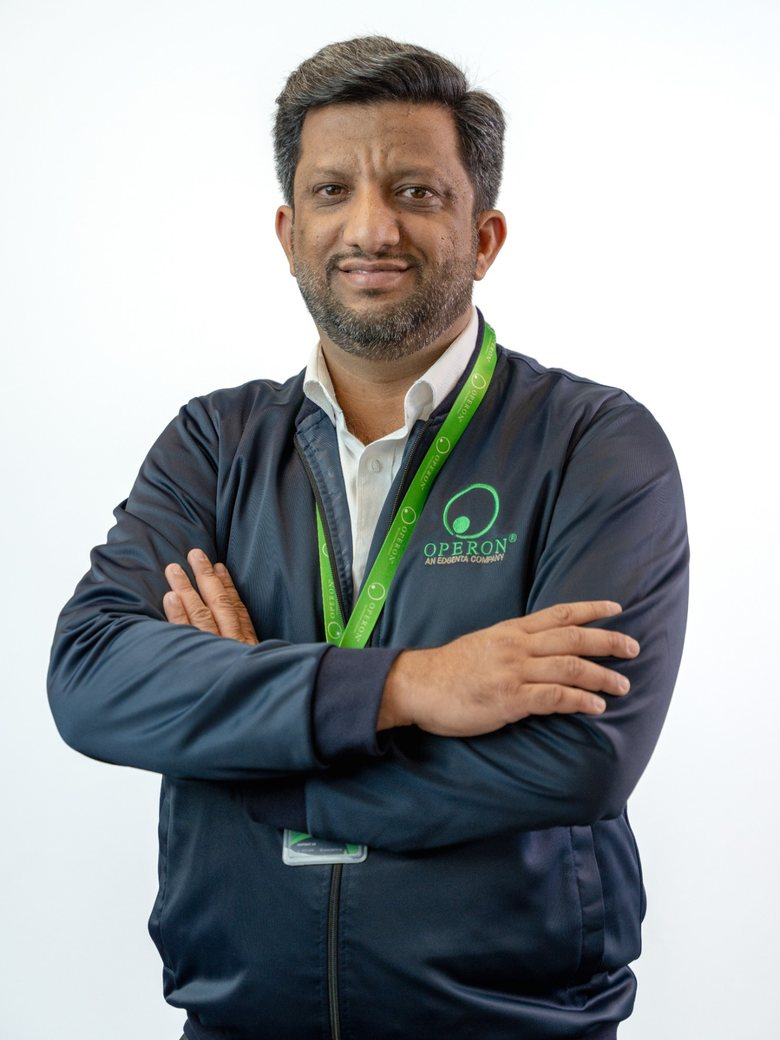
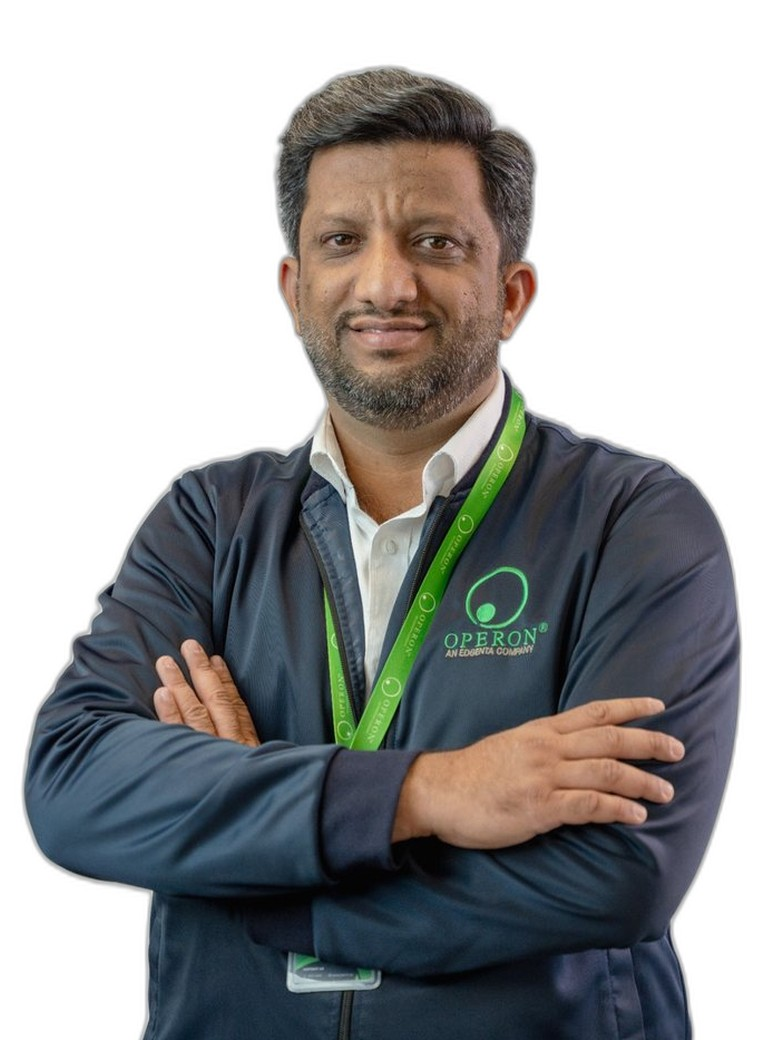
Visual consistency pass: standardized portraits, About layout, Residential image
- Executive Team portraits re-processed to a uniform standard: faces at
  consistent height and scale, white background across all nine, 3x3
  centered grid with hairline ring; Tenzin Doma reinstated and Linta
  Raju positioned directly after the CEO per client review.
- About hero restructured: headline and intro in an editorial two-column
  arrangement with the full photograph shown at its native 3:2 ratio.
- Our Work Residential slide now uses people-focused photography in
  line with the other environments.

Claude-Session: https://claude.ai/code/session_01T2PsXZERU4t9k9u6QZjdtD

diff --git a/src/app/about/page.tsx b/src/app/about/page.tsx
@@ -19,27 +19,32 @@ export default function AboutPage() {
   return (
     <>
       <section id="about" className="scroll-mt-28 bg-white pt-16 sm:pt-20 lg:pt-24">
-        <Container className="grid grid-cols-1 items-center gap-12 lg:grid-cols-2">
-          <Reveal>
-            <p className="text-xs font-bold uppercase tracking-[0.3em] text-green">
-              Who we are
-            </p>
-            <h1 className="mt-5 text-4xl font-bold leading-[1.08] tracking-tight text-black sm:text-5xl">
-              {about.headline}
-            </h1>
-            {about.paragraphs.map((p) => (
-              <p key={p.slice(0, 24)} className="mt-5 max-w-xl text-base leading-relaxed text-grey">
-                {p}
+        <Container>
+          <div className="grid grid-cols-1 gap-x-14 gap-y-8 lg:grid-cols-[1.1fr_1fr] lg:items-end">
+            <Reveal>
+              <p className="text-xs font-bold uppercase tracking-[0.3em] text-green">
+                Who we are
               </p>
-            ))}
-          </Reveal>
-          <Reveal delay={100}>
+              <h1 className="mt-5 text-4xl font-bold leading-[1.08] tracking-tight text-black sm:text-5xl">
+                {about.headline}
+              </h1>
+            </Reveal>
+            <Reveal delay={100}>
+              {about.paragraphs.map((p) => (
+                <p key={p.slice(0, 24)} className="mt-5 text-base leading-relaxed text-grey first:mt-0">
+                  {p}
+                </p>
+              ))}
+            </Reveal>
+          </div>
+          {/* Full photo at its native 3:2 ratio — nothing cropped away. */}
+          <Reveal delay={150} className="mt-12 sm:mt-14">
             <Photo
               src={photoFor("about-team") ?? photoFor("environments/master-communities")}
               alt="Operon teams at work across the UAE"
-              aspect="aspect-[4/5] max-h-[640px]"
+              aspect="aspect-[3/2]"
               className=""
-              sizes="(min-width: 1024px) 50vw, 100vw"
+              sizes="(min-width: 1280px) 1216px, 100vw"
               priority
             />
           </Reveal>

diff --git a/src/lib/team.ts b/src/lib/team.ts
@@ -1,9 +1,7 @@
-// Executive team profiles, in the order supplied by OME (November 2026,
-// incl. the follow-up correction placing Linta Raju before Suraya).
-// Photos live at public/images/photos/team/<slug>.jpg; a member without a
-// photo renders as a placeholder tile until it arrives.
-// Note: Tenzin Doma was not in the client's latest sequence and is
-// therefore not listed.
+// Executive team profiles, in the order supplied by OME (November 2026
+// review: Linta immediately after Bader, Tenzin reinstated, the rest in
+// the existing sequence). Photos live at
+// public/images/photos/team/<slug>.jpg.
 
 export type TeamMember = {
   slug: string;
@@ -13,11 +11,12 @@ export type TeamMember = {
 
 export const teamMembers: TeamMember[] = [
   { slug: "bader-iqbal", name: "Bader Iqbal", designation: "Chief Executive Officer" },
+  { slug: "linta-raju", name: "Linta Raju", designation: "Head of Finance" },
   { slug: "boban-thomas", name: "Boban Thomas", designation: "Director of Strategy & Growth" },
   { slug: "hani-abojendel", name: "Hani Abojendel", designation: "Head of Operations" },
   { slug: "vijeth-dsouza", name: "Vijeth D'Souza", designation: "Head of Commercial Strategy and Growth" },
-  { slug: "linta-raju", name: "Linta Raju", designation: "Head of Finance" },
   { slug: "suraya-azhani", name: "Suraya Azhani Amin", designation: "Head of Marketing and Stakeholder Management" },
+  { slug: "tenzin-doma", name: "Tenzin Doma", designation: "Head of Human Resources" },
   { slug: "aamir-zahoor", name: "Aamir Zahoor", designation: "Head of Procurement" },
   { slug: "warren-layug", name: "Warren Layug", designation: "Head of Centre of Excellence" },
 ];

diff --git a/src/app/our-team/page.tsx b/src/app/our-team/page.tsx
@@ -35,18 +35,18 @@ export default function OurTeamPage() {
 
       <section className="bg-white py-14 sm:py-20">
         <Container>
-          <div className="grid max-w-4xl grid-cols-2 gap-x-4 gap-y-10 sm:grid-cols-4">
+          <div className="mx-auto grid max-w-3xl grid-cols-2 gap-x-5 gap-y-10 sm:grid-cols-3">
             {teamMembers.map((m, i) => {
               const src = photoFor(`team/${m.slug}`);
               return (
-                <Reveal key={m.slug} delay={(i % 4) * 70}>
-                  <div className="group relative aspect-[3/4] overflow-hidden bg-mist">
+                <Reveal key={m.slug} delay={(i % 3) * 70}>
+                  <div className="group relative aspect-[3/4] overflow-hidden bg-white ring-1 ring-black/5">
                     {src && (
                       <Image
                         src={src}
                         alt={m.name}
                         fill
-                        sizes="(min-width: 1024px) 25vw, (min-width: 640px) 33vw, 50vw"
+                        sizes="(min-width: 640px) 33vw, 50vw"
                         className="object-cover transition-transform duration-700 ease-out group-hover:scale-[1.04]"
                       />
                     )}

diff --git a/src/components/home/TeamTeaser.tsx b/src/components/home/TeamTeaser.tsx
@@ -42,7 +42,7 @@ export default function TeamTeaser() {
             return (
               <Reveal key={m.slug} delay={i * 70}>
                 <Link href="/our-team" className="group block">
-                  <div className="relative aspect-[3/4] overflow-hidden bg-mist">
+                  <div className="relative aspect-[3/4] overflow-hidden bg-white ring-1 ring-black/5">
                     {src && (
                       <Image
                         src={src}
